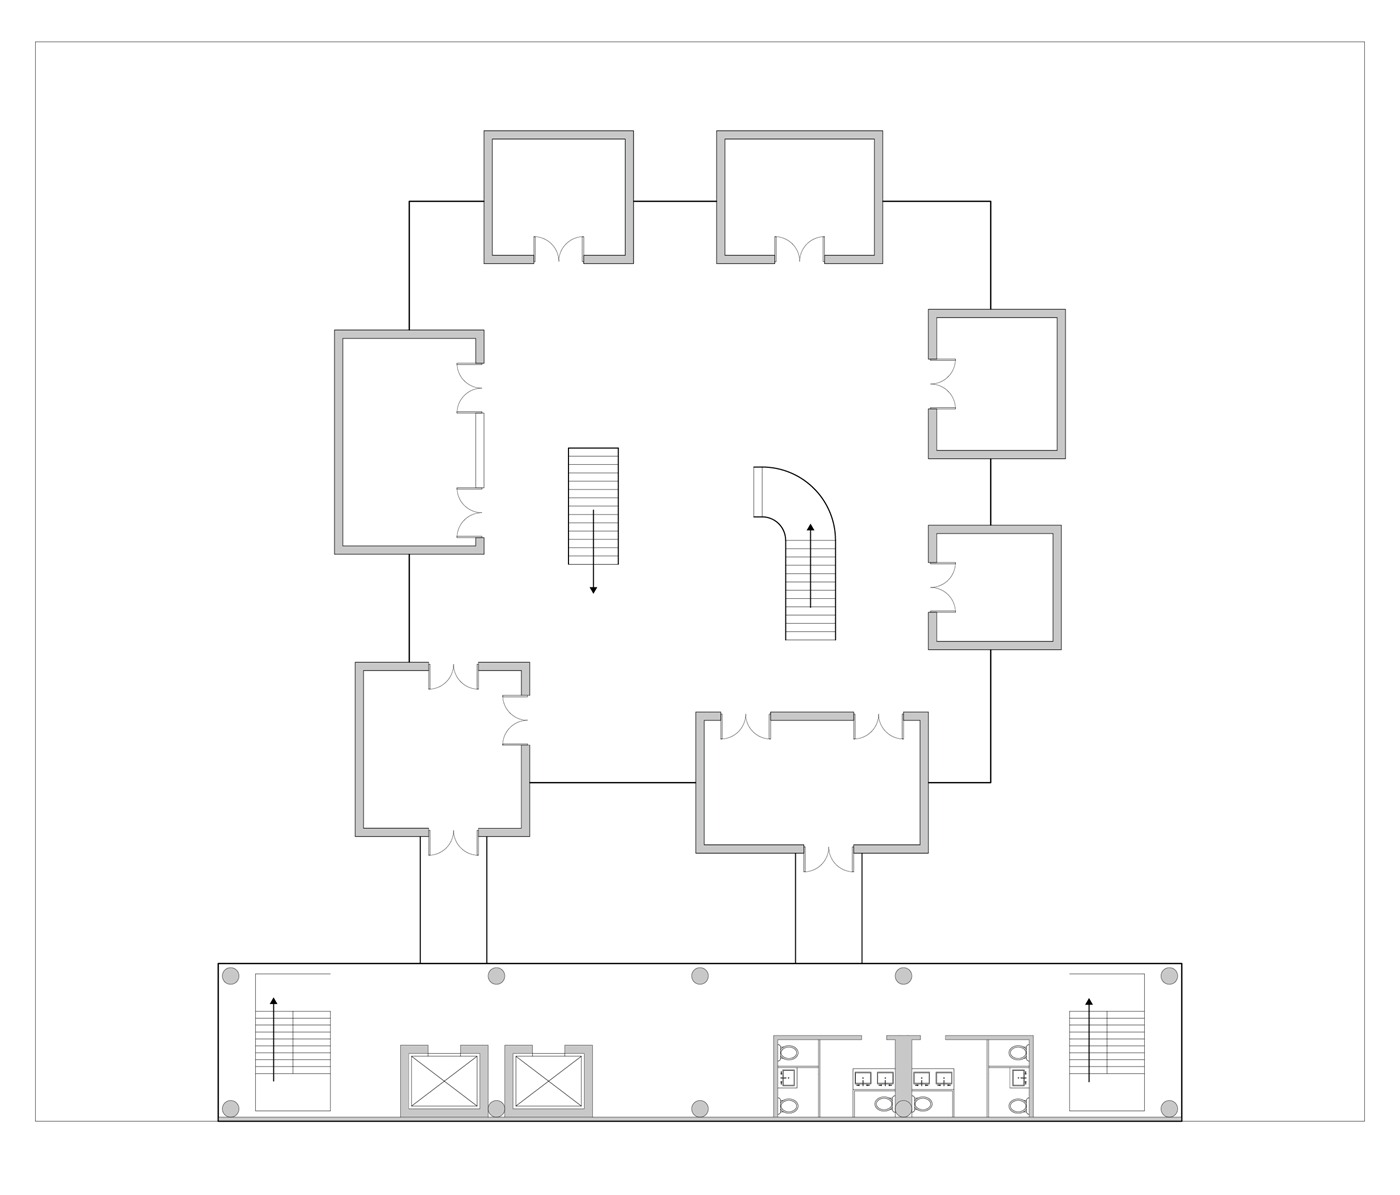
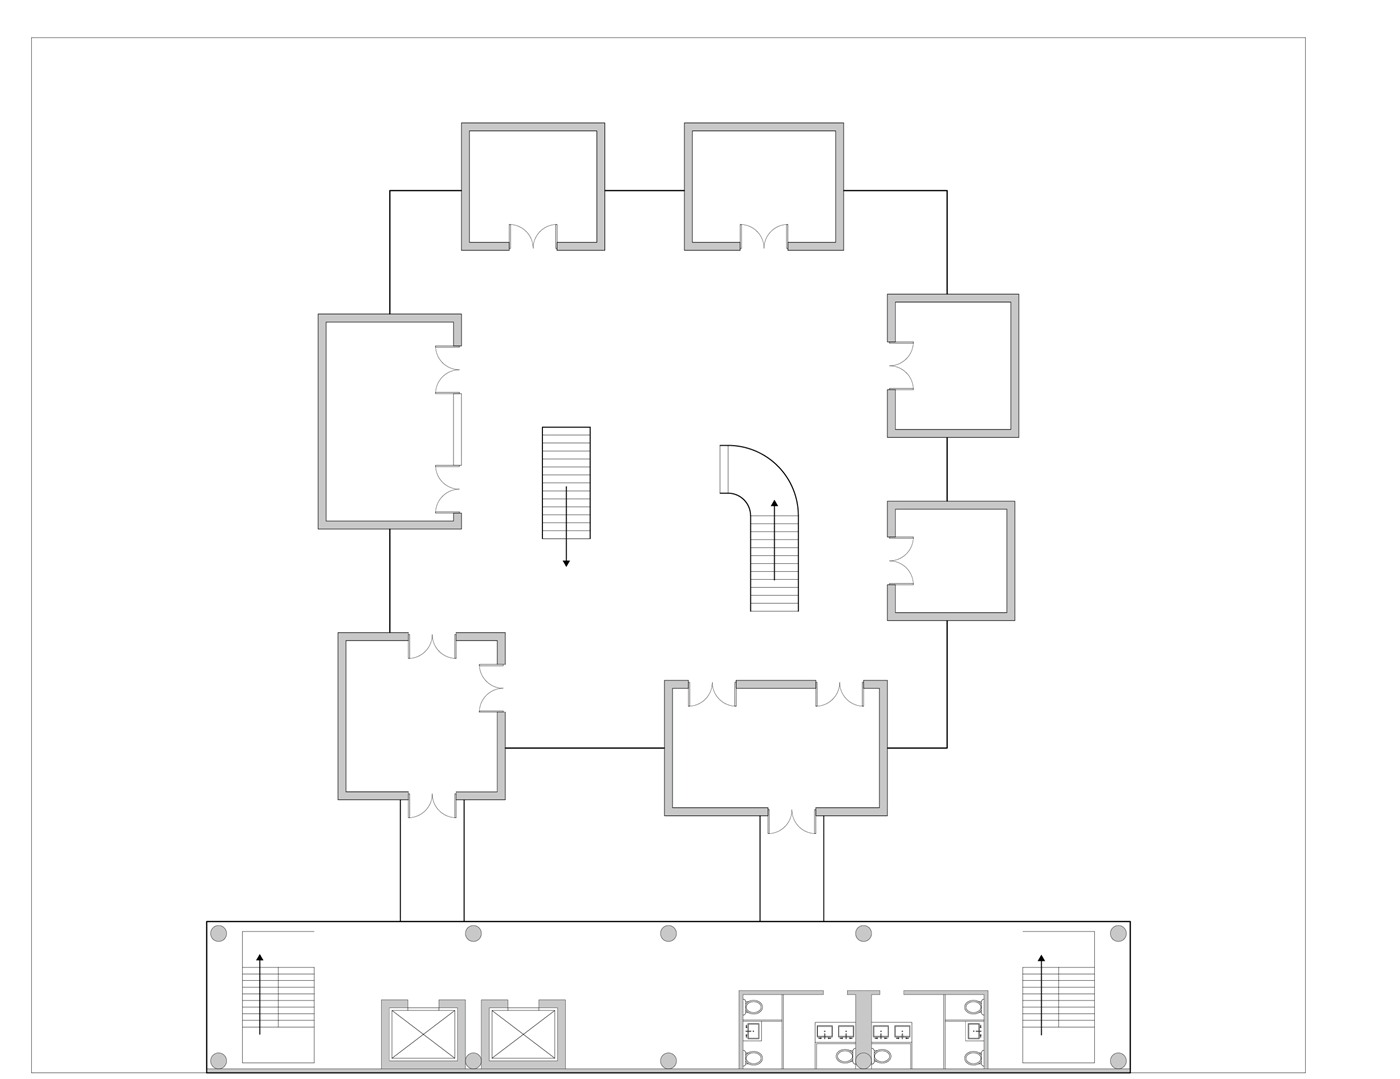
Ziggurat of Leaves: floor plans sized to span the exploded axon exactly
- Tight shared crop on the plans (labels close underneath) and on the axon
- 'match' aside option: column width solved so the stacked images run from
  the single image's top to its bottom; last captions share a line
- Images with a known ratio reserve their shape before loading
- 01 Ziggurat label nudged clear of the arrow

diff --git a/js/main.js b/js/main.js
@@ -223,7 +223,9 @@
 
     // One image, with optional white labels on top and (inside a group) its own caption
     const image = (img, inGroup) => {
-      const tag = `<img src="${asset(img.src)}" alt="${escapeHTML(img.caption || p.title)}" loading="lazy">`;
+      // known ratio: reserve the image's shape before it loads, so layouts can be measured early
+      const shape = img.ratio ? ` style="aspect-ratio:${img.ratio}"` : "";
+      const tag = `<img src="${asset(img.src)}" alt="${escapeHTML(img.caption || p.title)}" loading="lazy"${shape}>`;
       const labels = (img.labels || [])
         .map(
           (l) =>
@@ -233,7 +235,7 @@
       const inset = img.captionInset ? ` style="padding-left:${img.captionInset}"` : "";
       const ownCaption = inGroup && img.caption ? `<p class="item-caption"${inset}>${escapeHTML(img.caption)}</p>` : "";
       // in a row, each image's share of the width is its aspect ratio, so heights match
-      const flex = img.ratio ? ` style="--r:${img.ratio}"` : "";
+      const flex = img.ratio ? ` style="--r:${img.ratio}" data-ratio="${img.ratio}"` : "";
       const cls = img.hideOnMobile ? "gallery-item hide-mobile" : "gallery-item";
       return labels || ownCaption || flex || img.hideOnMobile
         ? `<div class="${cls}"${flex}>${tag}${labels}${ownCaption}</div>`
@@ -245,10 +247,8 @@
     const groupHTML = (block) => {
       if (block.layout !== "aside") return block.images.map((img) => image(img, true)).join("");
       const [first, ...rest] = block.images;
-      // split: [single, column] sets the two widths directly instead of matching heights
-      const single = block.split ? { ...first, ratio: block.split[0] } : first;
-      const colRatio = block.split ? block.split[1] : 1 / rest.reduce((sum, img) => sum + 1 / img.ratio, 0);
-      return `${image(single, true)}<div class="gallery-col" style="--r:${colRatio.toFixed(3)}">${rest
+      const colRatio = 1 / rest.reduce((sum, img) => sum + 1 / img.ratio, 0);
+      return `${image(first, true)}<div class="gallery-col" style="--r:${colRatio.toFixed(3)}">${rest
         .map((img) => image(img, true))
         .join("")}</div>`;
     };
@@ -275,7 +275,7 @@
           .join(";");
         const style = vars ? ` style="${vars}"` : "";
         return `
-      <figure class="gallery-${block.layout}${block.reverse ? " is-reverse" : ""}"${style}>
+      <figure class="gallery-${block.layout}${block.reverse ? " is-reverse" : ""}${block.match ? " is-matched" : ""}"${style}>
         <div class="gallery-group">${groupHTML(block)}</div>
         ${list}${caption(block.caption)}
       </figure>`;
@@ -295,6 +295,40 @@
         <a href="index.html#${p.category}" class="pager-index">Index</a>
         <a href="project.html?p=${next.slug}"><span>Next</span>${escapeHTML(next.title)}</a>
       </nav>`;
+
+    fitMatchedAsides();
+    window.addEventListener("resize", fitMatchedAsides);
+    document.fonts.ready.then(fitMatchedAsides);
+  }
+
+  /* Matched aside (desktop): size the stacked column so the span from its first image's
+     top to its last image's bottom equals the single image's height, i.e. the drawings
+     line up top and bottom and the last captions share a line. The span is linear in the
+     column width (images scale, captions and gaps don't), so one trial measurement fixes it. */
+  function fitMatchedAsides() {
+    document.querySelectorAll(".gallery-aside.is-matched").forEach((fig) => {
+      const group = fig.querySelector(".gallery-group");
+      const single = group.querySelector(":scope > .gallery-item");
+      const col = group.querySelector(".gallery-col");
+      if (!matchMedia("(min-width: 761px)").matches) {
+        single.style.flex = col.style.flex = "";
+        return;
+      }
+      const imgs = [...col.querySelectorAll("img")];
+      const perWidth = [...col.querySelectorAll("[data-ratio]")].reduce((sum, el) => sum + 1 / +el.dataset.ratio, 0);
+      const singleRatio = +single.dataset.ratio;
+      const total = group.clientWidth - parseFloat(getComputedStyle(group).columnGap || 0);
+
+      const trial = total / 2;
+      col.style.flex = `0 0 ${trial}px`;
+      single.style.flex = `0 0 ${total - trial}px`;
+      const span = imgs[imgs.length - 1].getBoundingClientRect().bottom - imgs[0].getBoundingClientRect().top;
+      const fixed = span - perWidth * trial; // captions + gaps between the images
+
+      const colWidth = (total - singleRatio * fixed) / (1 + singleRatio * perWidth);
+      col.style.flex = `0 0 ${colWidth}px`;
+      single.style.flex = `0 0 ${total - colWidth}px`;
+    });
   }
 
   /* ---------- Header: stretch tagline to the width of the name ---------- */

diff --git a/js/projects.js b/js/projects.js
@@ -21,8 +21,8 @@
                 { layout: "aside", images: [single, ...stacked] }
                                                      one image beside a stacked column, equal
                                                      heights; reverse: true puts the column on
-                                                     the left; split: [0.45, 0.55] sets the widths
-                                                     instead; align: "center" centres vertically
+                                                     the left; match: true sizes the column so its
+                                                     images span exactly the single image's height
               stack, row and aside can take gap: "10px" (stack: sit close instead of touching).
               A single image can take note: "..." for a short description under its caption.
               Image options: captionInset: "7%" (indent the caption to where the drawing
@@ -36,7 +36,7 @@
 */
 
 // Bump whenever an image file is replaced under the same name, so browsers fetch the new one
-const IMAGE_VERSION = 8;
+const IMAGE_VERSION = 9;
 
 const CATEGORIES = [
   { id: "academic", label: "Academic", prefix: "A" },
@@ -189,7 +189,7 @@ const PROJECTS = [
             ratio: 0.821,
             caption: "Progression Diagram",
             labels: [
-              { text: "01 Ziggurat", x: "28.8%", y: "25.6%", dark: true },
+              { text: "01 Ziggurat", x: "34%", y: "25.6%", dark: true },
               { text: "02 Tree", x: "82.7%", y: "51.4%", dark: true },
               { text: "03 Ziggurat of Leaves", x: "51.5%", y: "93.2%", dark: true },
             ],
@@ -201,14 +201,13 @@ const PROJECTS = [
       {
         layout: "aside", // plans stacked top floor first on the left, exploded axon on the right
         reverse: true,
-        split: [0.45, 0.55], // axon kept small (its source is low-res), plans get the room
-        align: "center",
+        match: true, // plans sized so the stack spans exactly the axon's height (see main.js)
         gap: "clamp(20px, 3vw, 48px)",
         images: [
-          { src: "assets/img/projects/ziggurat-of-leaves/axon-nw.jpg", caption: "Exploded Axonometric" },
-          { src: "assets/img/projects/ziggurat-of-leaves/plan-2.jpg", ratio: 1.171, caption: "Level 2 Floor Plan", captionInset: "2.2%" },
-          { src: "assets/img/projects/ziggurat-of-leaves/plan-1.jpg", ratio: 1.171, caption: "Level 1 Floor Plan", captionInset: "2.2%" },
-          { src: "assets/img/projects/ziggurat-of-leaves/plan-ground.jpg", ratio: 1.171, caption: "Ground Floor Plan", captionInset: "2.2%" },
+          { src: "assets/img/projects/ziggurat-of-leaves/axon-nw.jpg", ratio: 0.6367, caption: "Exploded Axonometric" },
+          { src: "assets/img/projects/ziggurat-of-leaves/plan-2.jpg", ratio: 1.2975, caption: "Level 2 Floor Plan", captionInset: "0.9%" },
+          { src: "assets/img/projects/ziggurat-of-leaves/plan-1.jpg", ratio: 1.2975, caption: "Level 1 Floor Plan", captionInset: "2.2%" },
+          { src: "assets/img/projects/ziggurat-of-leaves/plan-ground.jpg", ratio: 1.2975, caption: "Ground Floor Plan", captionInset: "2.2%" },
         ],
       },
       {

diff --git a/project.html b/project.html
@@ -25,7 +25,7 @@
   <link rel="icon" href="assets/img/favicon.svg" type="image/svg+xml">
   <link rel="icon" href="assets/img/favicon-32.png" sizes="32x32" type="image/png">
   <link rel="apple-touch-icon" href="assets/img/apple-touch-icon.png">
-  <link rel="stylesheet" href="css/style.css?v=32">
+  <link rel="stylesheet" href="css/style.css?v=33">
 </head>
 <body data-page="project">
 
@@ -48,7 +48,7 @@
     <article class="project" id="project"></article>
   </main>
 
-  <script src="js/projects.js?v=32"></script>
-  <script src="js/main.js?v=32"></script>
+  <script src="js/projects.js?v=33"></script>
+  <script src="js/main.js?v=33"></script>
 </body>
 </html>

diff --git a/index.html b/index.html
@@ -30,7 +30,7 @@
   <link rel="preconnect" href="https://fonts.googleapis.com">
   <link rel="preconnect" href="https://fonts.gstatic.com" crossorigin>
   <link rel="stylesheet" href="https://fonts.googleapis.com/css2?family=Inter:wght@400;700&display=swap">
-  <link rel="stylesheet" href="css/style.css?v=32">
+  <link rel="stylesheet" href="css/style.css?v=33">
 </head>
 <body data-page="index">
 
@@ -157,7 +157,7 @@
     </div>
   </main>
 
-  <script src="js/projects.js?v=32"></script>
-  <script src="js/main.js?v=32"></script>
+  <script src="js/projects.js?v=33"></script>
+  <script src="js/main.js?v=33"></script>
 </body>
 </html>

diff --git a/css/style.css b/css/style.css
@@ -533,6 +533,11 @@ html.menu-entering .layout > :not(.menu) {
   flex-direction: row-reverse;
 }
 
+/* matched (widths set by main.js): both sides start at the top */
+.gallery-aside.is-matched .gallery-group {
+  align-items: flex-start;
+}
+
 /* a short description under a caption */
 .caption-note {
   display: block;
